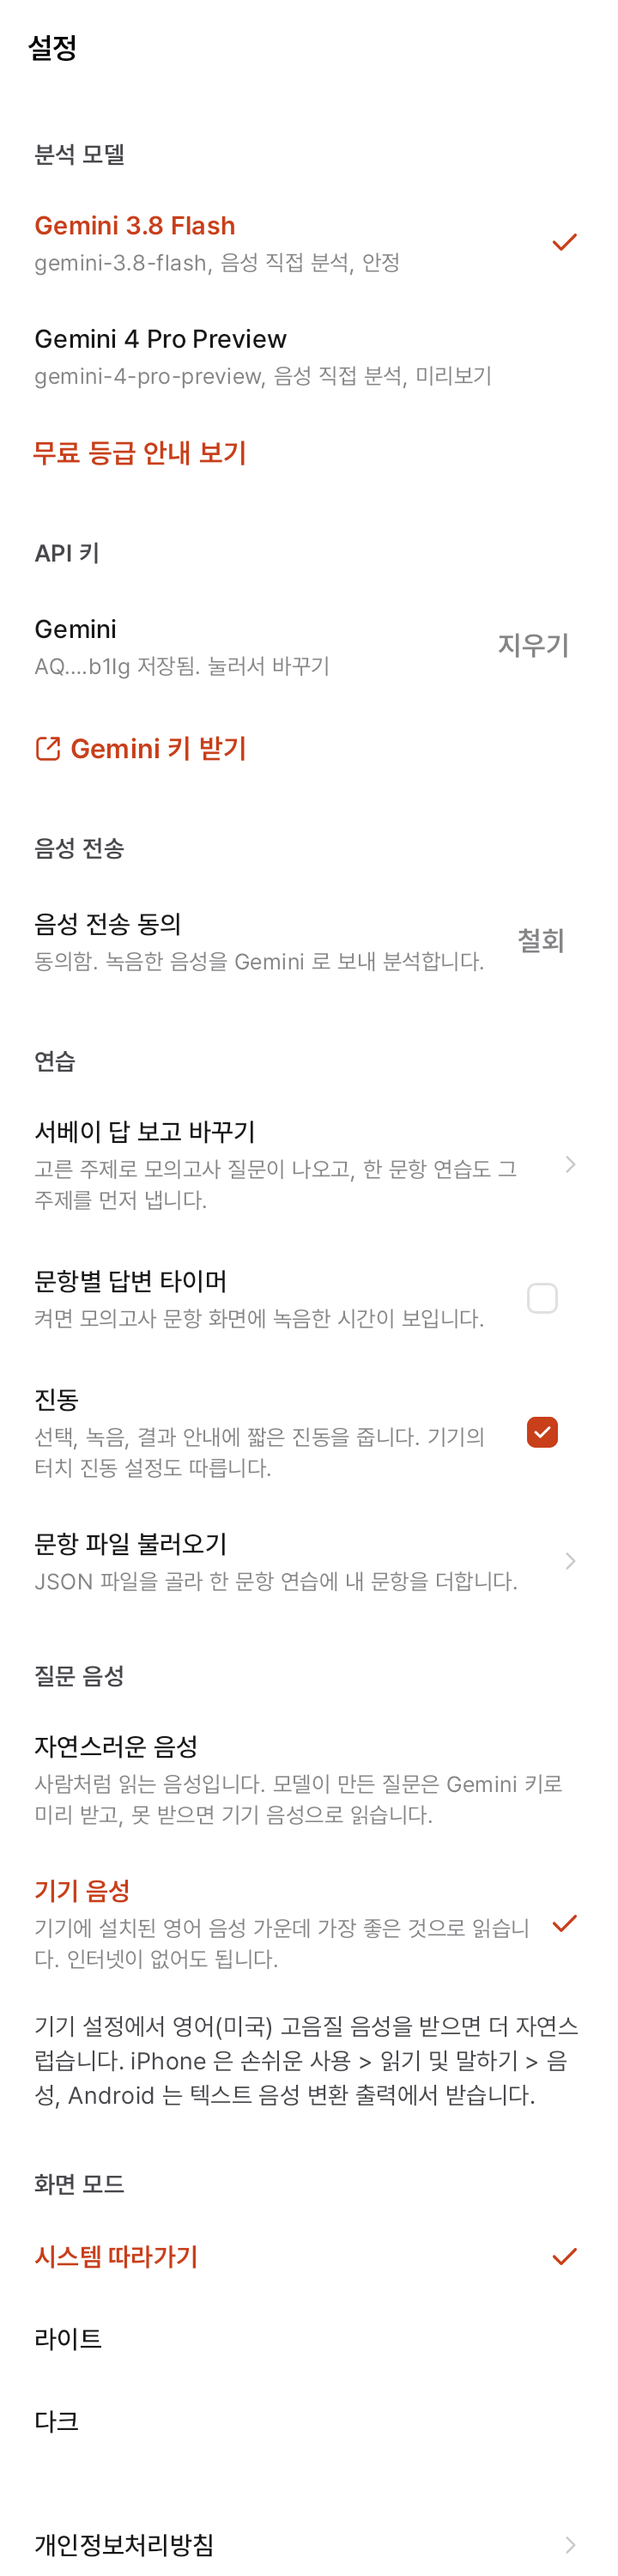
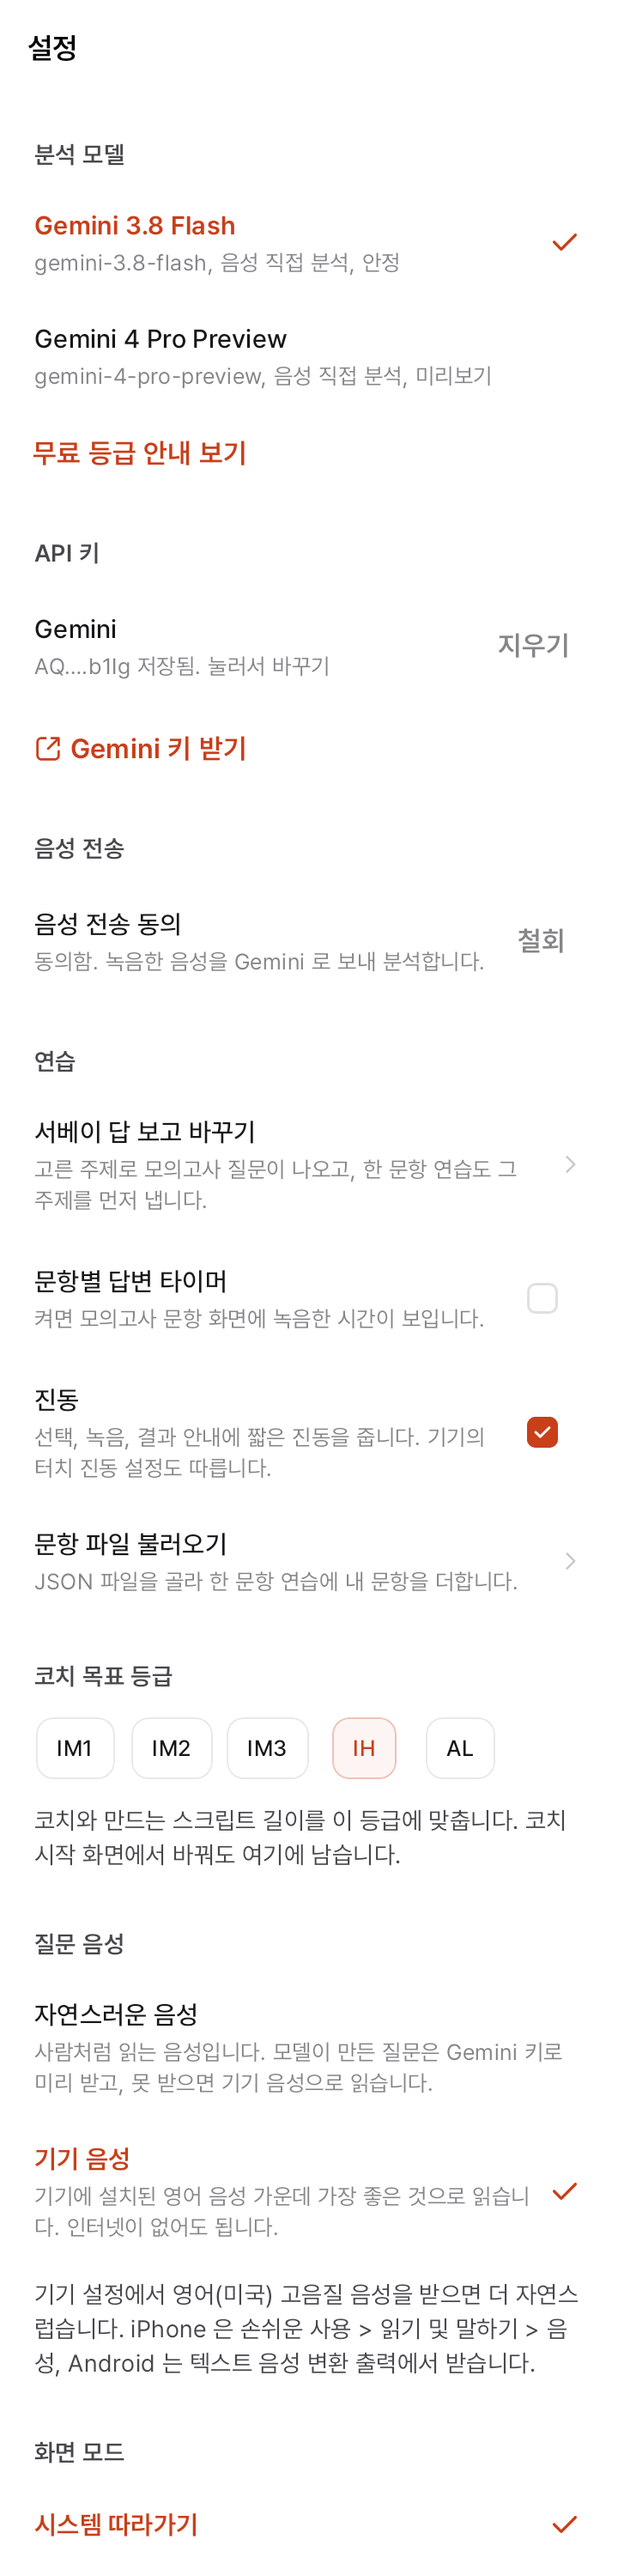
[target-grade] 설정 화면에 코치 목표 등급 항목을 더했다 (#263)

Changed region(s): [[0.0611, 0.651, 0.9167, 0.992], [0.8861, 0.868, 0.9167, 0.93], [0.8556, 0.682, 0.9167, 0.713]]

diff --git a/ui/feature-settings/src/commonMain/kotlin/io/github/nosorae/aiopic/ui/featuresettings/SettingsViewModel.kt b/ui/feature-settings/src/commonMain/kotlin/io/github/nosorae/aiopic/ui/featuresettings/SettingsViewModel.kt
@@ -3,6 +3,8 @@ package io.github.nosorae.aiopic.ui.featuresettings
 import androidx.lifecycle.ViewModel
 import androidx.lifecycle.viewModelScope
 import dev.zacsweers.metro.Inject
+import io.github.nosorae.aiopic.ui.featurelive.ObserveTargetGradeUseCase
+import io.github.nosorae.aiopic.ui.featurelive.SetTargetGradeUseCase
 import io.github.nosorae.aiopic.ui.featuresettings.consent.RevokeVoiceConsentUseCase
 import io.github.nosorae.aiopic.ui.featuresettings.haptics.SetHapticsUseCase
 import io.github.nosorae.aiopic.ui.featuresettings.key.DeleteKeyUseCase
@@ -15,10 +17,12 @@ import io.github.nosorae.aiopic.ui.featuresettings.voice.SetQuestionVoiceUseCase
 import kotlinx.coroutines.flow.MutableStateFlow
 import kotlinx.coroutines.flow.StateFlow
 import kotlinx.coroutines.flow.asStateFlow
+import kotlinx.coroutines.flow.launchIn
+import kotlinx.coroutines.flow.onEach
 import kotlinx.coroutines.flow.update
 import kotlinx.coroutines.launch
 
-/** 설정 탭(S14)의 분석 모델, 제공사별 키, 음성 전송 동의, 답변 타이머, 문항 파일, 진동, 질문 음성, 화면 모드. */
+/** 설정 탭(S14)의 분석 모델, 제공사별 키, 음성 전송 동의, 답변 타이머, 문항 파일, 진동, 질문 음성, 코치 목표 등급, 화면 모드. */
 @Inject
 class SettingsViewModel(
     private val loadSettingsUseCase: LoadSettingsUseCase,
@@ -30,12 +34,18 @@ class SettingsViewModel(
     private val importQuestionsUseCase: ImportQuestionsUseCase,
     private val setHapticsUseCase: SetHapticsUseCase,
     private val setQuestionVoiceUseCase: SetQuestionVoiceUseCase,
+    observeTargetGradeUseCase: ObserveTargetGradeUseCase,
+    private val setTargetGradeUseCase: SetTargetGradeUseCase,
 ) : ViewModel() {
     private val _uiState = MutableStateFlow(SettingsUiState())
     val uiState: StateFlow<SettingsUiState> = _uiState.asStateFlow()
 
     init {
         load()
+        // 시작 시트에서도 바뀌는 전역 값이라 한 번 읽지 않고 구독한다(F10.3).
+        observeTargetGradeUseCase()
+            .onEach { choice -> _uiState.update { it.copy(targetGrades = choice.grades, targetGrade = choice.selected) } }
+            .launchIn(viewModelScope)
     }
 
     fun onIntent(intent: SettingsIntent) {
@@ -84,6 +94,8 @@ class SettingsViewModel(
                 setQuestionVoiceUseCase(intent.on)
                 _uiState.update { it.copy(naturalVoiceOn = intent.on) }
             }
+
+            is SettingsIntent.SelectTargetGrade -> viewModelScope.launch { setTargetGradeUseCase(intent.grade) }
 
             is SettingsIntent.ImportQuestions -> viewModelScope.launch {
                 val result = importQuestionsUseCase(intent.json)

diff --git a/ui/feature-settings/src/commonTest/kotlin/io/github/nosorae/aiopic/ui/featuresettings/Fakes.kt b/ui/feature-settings/src/commonTest/kotlin/io/github/nosorae/aiopic/ui/featuresettings/Fakes.kt
@@ -4,6 +4,9 @@ import io.github.nosorae.aiopic.engine.answer.model.ModelInfo
 import io.github.nosorae.aiopic.engine.answer.model.Stability
 import io.github.nosorae.aiopic.engine.answer.port.ModelCatalog
 import io.github.nosorae.aiopic.libs.keyvault.api.KeyVault
+import io.github.nosorae.aiopic.ui.featurelive.ObserveTargetGradeUseCase
+import io.github.nosorae.aiopic.ui.featurelive.SetTargetGradeUseCase
+import io.github.nosorae.aiopic.ui.featurelive.TargetGradeStore
 import io.github.nosorae.aiopic.ui.featureonboarding.consent.VoiceConsent
 import io.github.nosorae.aiopic.ui.featuresettings.consent.PendingAnalysis
 import io.github.nosorae.aiopic.ui.featuresettings.consent.RevokeVoiceConsentUseCase
@@ -40,7 +43,8 @@ class FakeSettingsStore(var modelId: String? = null) :
     AnswerTimerStore,
     QuestionFileStore,
     HapticsStore,
-    QuestionVoiceStore {
+    QuestionVoiceStore,
+    TargetGradeStore {
     var consentGiven = true
     var answerTimerOn = false
     var questionFile: String? = null
@@ -49,6 +53,13 @@ class FakeSettingsStore(var modelId: String? = null) :
     var highQualityDeviceVoice = true
 
     override val themeMode = MutableStateFlow(ThemeMode.System)
+
+    override val targetGrades = listOf("IM1", "IM2", "IM3", "IH", "AL")
+    override val targetGrade = MutableStateFlow("IH")
+
+    override suspend fun setTargetGrade(grade: String) {
+        targetGrade.value = grade
+    }
 
     override suspend fun selectedModelId(): String? = modelId
 
@@ -115,6 +126,8 @@ fun settingsViewModel(store: FakeSettingsStore, vault: FakeKeyVault, queue: Fake
     importQuestionsUseCase = ImportQuestionsUseCase(store),
     setHapticsUseCase = SetHapticsUseCase(store),
     setQuestionVoiceUseCase = SetQuestionVoiceUseCase(store),
+    observeTargetGradeUseCase = ObserveTargetGradeUseCase(store),
+    setTargetGradeUseCase = SetTargetGradeUseCase(store),
 )
 
 class FakeKeyVault(vararg saved: Pair<String, String>) : KeyVault {

diff --git a/ui/feature-settings/src/commonTest/kotlin/io/github/nosorae/aiopic/ui/featuresettings/TargetGradeSettingTest.kt b/ui/feature-settings/src/commonTest/kotlin/io/github/nosorae/aiopic/ui/featuresettings/TargetGradeSettingTest.kt
@@ -1,0 +1,52 @@
+package io.github.nosorae.aiopic.ui.featuresettings
+
+import kotlinx.coroutines.Dispatchers
+import kotlinx.coroutines.test.StandardTestDispatcher
+import kotlinx.coroutines.test.advanceUntilIdle
+import kotlinx.coroutines.test.resetMain
+import kotlinx.coroutines.test.runTest
+import kotlinx.coroutines.test.setMain
+import kotlin.test.AfterTest
+import kotlin.test.BeforeTest
+import kotlin.test.Test
+import kotlin.test.assertEquals
+
+/** 코치 목표 등급(F10.3, F10.4). 시작 시트 쪽은 `CoachStartViewModelTest` 가 본다. */
+class TargetGradeSettingTest {
+    private val dispatcher = StandardTestDispatcher()
+    private val store = FakeSettingsStore()
+
+    @BeforeTest fun setUp() = Dispatchers.setMain(dispatcher)
+
+    @AfterTest fun tearDown() = Dispatchers.resetMain()
+
+    @Test
+    fun `F10_4 설정 화면은 고를 등급 다섯과 지금 목표 등급을 보인다`() = runTest(dispatcher) {
+        val viewModel = settingsViewModel(store, FakeKeyVault())
+        advanceUntilIdle()
+
+        assertEquals(store.targetGrades to "IH", viewModel.uiState.value.let { it.targetGrades to it.targetGrade })
+    }
+
+    @Test
+    fun `F10_3 설정에서 고르면 전역 값이 바뀐다`() = runTest(dispatcher) {
+        val viewModel = settingsViewModel(store, FakeKeyVault())
+        advanceUntilIdle()
+
+        viewModel.onIntent(SettingsIntent.SelectTargetGrade("AL"))
+        advanceUntilIdle()
+
+        assertEquals("AL", store.targetGrade.value)
+    }
+
+    @Test
+    fun `F10_3 시작 시트에서 바꾼 값이 열려 있던 설정 화면에도 보인다`() = runTest(dispatcher) {
+        val viewModel = settingsViewModel(store, FakeKeyVault())
+        advanceUntilIdle()
+
+        store.setTargetGrade("IM1")
+        advanceUntilIdle()
+
+        assertEquals("IM1", viewModel.uiState.value.targetGrade)
+    }
+}

diff --git a/ui/feature-settings/src/commonMain/kotlin/io/github/nosorae/aiopic/ui/featuresettings/SettingsScreen.kt b/ui/feature-settings/src/commonMain/kotlin/io/github/nosorae/aiopic/ui/featuresettings/SettingsScreen.kt
@@ -33,6 +33,7 @@ import io.github.nosorae.aiopic.ui.design.MontageSpacing
 import io.github.nosorae.aiopic.ui.design.MontageTheme
 import io.github.nosorae.aiopic.ui.design.MontageTopBar
 import io.github.nosorae.aiopic.ui.design.icon_normal_external_link
+import io.github.nosorae.aiopic.ui.featurelive.TargetGradeChips
 import io.github.nosorae.aiopic.ui.featureonboarding.key.KeyProvider
 import io.github.nosorae.aiopic.ui.featuresettings.key.KeyStatus
 import io.github.nosorae.aiopic.ui.featuresettings.practice.QuestionImportResult
@@ -179,6 +180,15 @@ fun SettingsScreen(
                 onClick = onPickQuestionFile,
             )
             state.questionImport?.let { QuestionImportNotice(it) }
+
+            SectionLabel(Res.string.settings_target_grade_section)
+            TargetGradeChips(
+                grades = state.targetGrades,
+                selected = state.targetGrade,
+                onSelect = { onIntent(SettingsIntent.SelectTargetGrade(it)) },
+                modifier = Modifier.padding(horizontal = MontageSpacing.spacing20),
+            )
+            Notice(stringResource(Res.string.settings_target_grade_caption))
 
             SectionLabel(Res.string.settings_voice_section)
             MontageListCell(
@@ -359,6 +369,8 @@ internal object SettingsSamples {
         models = listOf(stable, preview),
         selectedModelId = stable.id,
         keys = listOf(KeyStatus(KeyProvider.Gemini, maskedKey = "AQ.…b1Ig")),
+        targetGrades = listOf("IM1", "IM2", "IM3", "IH", "AL"),
+        targetGrade = "IH",
     )
     val previewSelected = default.copy(selectedModelId = preview.id)
     val fellBack = default.copy(fellBackFrom = "gemini-2.0-flash", keys = listOf(KeyStatus(KeyProvider.Gemini, maskedKey = null)))

diff --git a/ui/feature-settings/src/commonMain/kotlin/io/github/nosorae/aiopic/ui/featuresettings/SettingsUiState.kt b/ui/feature-settings/src/commonMain/kotlin/io/github/nosorae/aiopic/ui/featuresettings/SettingsUiState.kt
@@ -32,6 +32,9 @@ data class SettingsUiState(
     val importedQuestionCount: Int = 0,
     /** 방금 불러온 결과 안내. 다시 불러오기 전까지 남는다. */
     val questionImport: QuestionImportResult? = null,
+    /** 코치 목표 등급으로 고를 수 있는 등급과 지금 값(F10.3). 읽기 전에는 비어 있다. */
+    val targetGrades: List<String> = emptyList(),
+    val targetGrade: String? = null,
 ) {
     val selectedModel: ModelInfo? get() = models.firstOrNull { it.id == selectedModelId }
 
@@ -68,6 +71,8 @@ sealed interface SettingsIntent {
 
     /** 질문 음성을 고른다. false 면 기기 음성이다. */
     data class SetNaturalVoice(val on: Boolean) : SettingsIntent
+
+    data class SelectTargetGrade(val grade: String) : SettingsIntent
 
     /** 화면이 고른 파일의 내용을 넘긴다. 파일을 읽지 못했으면 null 이다. 고르기를 취소하면 보내지 않는다. */
     data class ImportQuestions(val json: String?) : SettingsIntent
